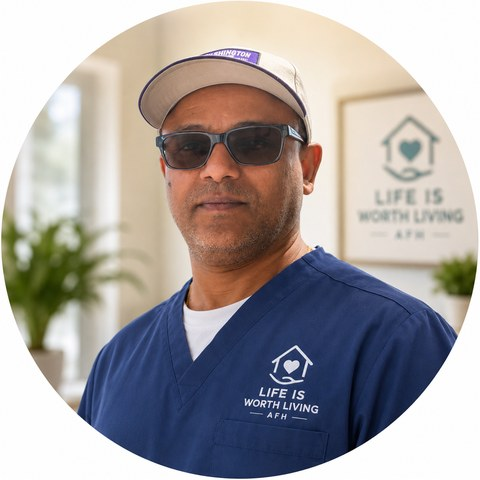
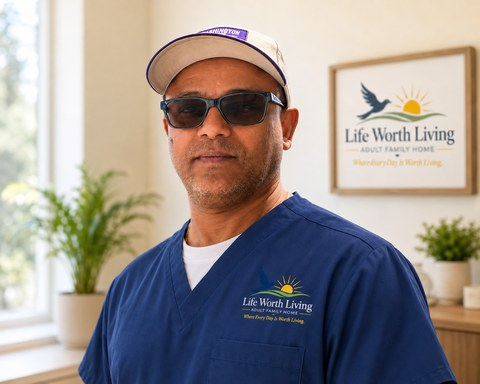
Update Zekariase rectangular profile photo

diff --git a/about/index.html b/about/index.html
@@ -51,7 +51,7 @@
     <section class="py-16 bg-gray-50"><div class="mx-auto max-w-5xl px-4 sm-px-6 lg-px-8"><figure class="owner-quote rounded-3xl border shadow-card"><span class="quote-mark" aria-hidden="true">&ldquo;</span><blockquote>We care for every resident with the same kindness, dignity, and respect we would want for our own family.</blockquote></figure></div></section>
 
     <!-- Meet the Owners -->
-    <section class="py-20 bg-gray-50"><div class="mx-auto max-w-7xl px-4 sm-px-6 lg-px-8"><div class="max-w-3xl"><span class="section-label">Meet the Owners</span><h2 class="mt-4 text-3xl md-text-5xl font-extrabold leading-tight">Experienced leadership with a personal commitment to care.</h2></div><div class="mt-10 grid lg-grid-cols-2 gap-8"><article class="owner-card p-8 rounded-3xl bg-white border shadow-card hover-lift"><div class="owner-portrait-frame owner-portrait-square"><picture><source srcset="../assets/images/team/zekariase-profile-480.jpg 480w, ../assets/images/team/zekariase-profile-960.jpg 960w, ../assets/images/team/zekariase-profile.jpg 1254w" sizes="(max-width: 767px) 92vw, 50vw"><img src="../assets/images/team/zekariase-profile.jpg" alt="Zekariase, MSN, RN, owner of Life Is Worth Living Adult Family Home" width="1254" height="1254" loading="lazy" decoding="async"></picture></div><div class="flex items-start justify-between gap-4 mobile-wrap"><div><h3 class="text-3xl font-extrabold">Zekariase</h3><p class="mt-2 text-lg font-bold text-teal">MSN, RN</p></div><div class="credential-stack"><span class="credential-badge">28+ Years Healthcare Experience</span></div></div><p class="mt-6 text-muted">Zekariase has more than 28 years of healthcare experience, beginning his career as a Certified Nursing Assistant and advancing to become a Registered Nurse and healthcare leader.</p><p class="mt-4 text-muted">Since 2009, he has worked as a Registered Nurse at the Veterans Affairs Hospital, caring for individuals across a variety of settings.</p><div class="mt-6 specialty-grid"><span>Geriatric Care</span><span>Medical-Surgical Nursing</span><span>Transitional Care</span><span>Long-Term Care</span><span>Respite Care</span><span>Hospice &amp; End-of-Life Care</span></div><p class="mt-6 text-muted">In 2020, he earned a Master of Nursing Leadership degree from the University of Washington, further strengthening his commitment to exceptional resident-centered care and healthcare leadership.</p></article><article class="owner-card p-8 rounded-3xl bg-white border shadow-card hover-lift"><div class="owner-portrait-frame"><img src="../assets/images/owner-alem.jpg" alt="Portrait placeholder for Alem" width="1200" height="900" loading="lazy" decoding="async"></div><div class="flex items-start justify-between gap-4 mobile-wrap"><div><h3 class="text-3xl font-extrabold">Alem</h3><p class="mt-2 text-lg font-bold text-teal">Business and healthcare experience</p></div><div class="credential-stack"><span class="credential-badge">CNA</span><span class="credential-badge">Business Degree</span></div></div><p class="mt-6 text-muted">Alem brings both business and healthcare experience to the home.</p><p class="mt-4 text-muted">She earned her Business Degree in 2005 and has worked as a Certified Nursing Assistant, dedicating herself to supporting and caring for individuals with compassion, professionalism, and respect.</p></article></div></div></section>
+    <section class="py-20 bg-gray-50"><div class="mx-auto max-w-7xl px-4 sm-px-6 lg-px-8"><div class="max-w-3xl"><span class="section-label">Meet the Owners</span><h2 class="mt-4 text-3xl md-text-5xl font-extrabold leading-tight">Experienced leadership with a personal commitment to care.</h2></div><div class="mt-10 grid lg-grid-cols-2 gap-8"><article class="owner-card p-8 rounded-3xl bg-white border shadow-card hover-lift"><div class="owner-portrait-frame"><picture><source srcset="../assets/images/team/zekariase-profile-480.jpg 480w, ../assets/images/team/zekariase-profile-960.jpg 960w, ../assets/images/team/zekariase-profile.jpg 1402w" sizes="(max-width: 767px) 92vw, 50vw"><img src="../assets/images/team/zekariase-profile.jpg" alt="Zekariase, MSN, RN, owner of Life Is Worth Living Adult Family Home" width="1402" height="1122" loading="lazy" decoding="async"></picture></div><div class="flex items-start justify-between gap-4 mobile-wrap"><div><h3 class="text-3xl font-extrabold">Zekariase</h3><p class="mt-2 text-lg font-bold text-teal">MSN, RN</p></div><div class="credential-stack"><span class="credential-badge">28+ Years Healthcare Experience</span></div></div><p class="mt-6 text-muted">Zekariase has more than 28 years of healthcare experience, beginning his career as a Certified Nursing Assistant and advancing to become a Registered Nurse and healthcare leader.</p><p class="mt-4 text-muted">Since 2009, he has worked as a Registered Nurse at the Veterans Affairs Hospital, caring for individuals across a variety of settings.</p><div class="mt-6 specialty-grid"><span>Geriatric Care</span><span>Medical-Surgical Nursing</span><span>Transitional Care</span><span>Long-Term Care</span><span>Respite Care</span><span>Hospice &amp; End-of-Life Care</span></div><p class="mt-6 text-muted">In 2020, he earned a Master of Nursing Leadership degree from the University of Washington, further strengthening his commitment to exceptional resident-centered care and healthcare leadership.</p></article><article class="owner-card p-8 rounded-3xl bg-white border shadow-card hover-lift"><div class="owner-portrait-frame"><img src="../assets/images/owner-alem.jpg" alt="Portrait placeholder for Alem" width="1200" height="900" loading="lazy" decoding="async"></div><div class="flex items-start justify-between gap-4 mobile-wrap"><div><h3 class="text-3xl font-extrabold">Alem</h3><p class="mt-2 text-lg font-bold text-teal">Business and healthcare experience</p></div><div class="credential-stack"><span class="credential-badge">CNA</span><span class="credential-badge">Business Degree</span></div></div><p class="mt-6 text-muted">Alem brings both business and healthcare experience to the home.</p><p class="mt-4 text-muted">She earned her Business Degree in 2005 and has worked as a Certified Nursing Assistant, dedicating herself to supporting and caring for individuals with compassion, professionalism, and respect.</p></article></div></div></section>
 
     <!-- Mission -->
     <section class="py-20 bg-white"><div class="mx-auto max-w-7xl px-4 sm-px-6 lg-px-8"><article class="mission-card rounded-3xl border shadow-soft"><span class="section-label">Mission</span><h2 class="mt-5 text-3xl md-text-5xl font-extrabold leading-tight">To provide exceptional, dignified, and person-centered care in a safe, loving, and faith-inspired home environment.</h2></article></div></section>

diff --git a/styles.css b/styles.css
@@ -55,7 +55,6 @@ main section{animation:fade-up .58s ease both}main section:nth-child(2){animatio
 
 /* About owner refinements */
 .owner-portrait-frame{position:relative;overflow:hidden;margin:-.35rem -.35rem 1.6rem;border:1px solid rgba(219,231,232,.86);border-radius:1.25rem;background:linear-gradient(135deg,#edf6ef 0%,#fff8e6 100%);box-shadow:0 16px 42px rgba(22,50,79,.08)}.owner-portrait-frame img{display:block;width:100%;aspect-ratio:4/3;object-fit:cover;object-position:center}.owner-quote{position:relative;overflow:hidden;background:linear-gradient(135deg,#fff 0%,#f8fbfb 58%,#fff8e6 100%);padding:clamp(1.7rem,5vw,3.5rem) clamp(1.4rem,5vw,4rem) clamp(1.7rem,5vw,3.25rem);border-color:rgba(219,231,232,.9)}.owner-quote:before{content:"";position:absolute;left:0;top:0;bottom:0;width:6px;background:linear-gradient(180deg,var(--teal),var(--gold))}.owner-quote blockquote{position:relative;margin:0;padding-left:clamp(2.1rem,5vw,3.8rem);color:var(--navy);font-family:"Playfair Display",Georgia,"Times New Roman",serif;font-size:clamp(1.55rem,3vw,2.7rem);font-weight:800;line-height:1.2;text-wrap:balance}.quote-mark{position:absolute;left:clamp(1.2rem,3vw,2.25rem);top:clamp(1rem,3vw,1.8rem);color:rgba(21,154,165,.18);font-family:Georgia,"Times New Roman",serif;font-size:clamp(4.5rem,12vw,8rem);font-weight:900;line-height:1}@media(max-width:767px){.owner-portrait-frame{margin:0 0 1.35rem}.owner-quote blockquote{padding-left:1.45rem;font-size:1.42rem}.quote-mark{font-size:4rem;left:.9rem;top:.8rem}}
-.owner-portrait-square picture{display:block;width:100%}.owner-portrait-square img{aspect-ratio:1/1;object-fit:cover;background:#fff}
 
 /* Final services page polish */
 .services-trust-strip{padding:0 0 2.5rem}.services-trust-panel{margin-top:-2rem;position:relative;z-index:2;display:grid;grid-template-columns:repeat(4,minmax(0,1fr));gap:.85rem;border:1px solid rgba(219,231,232,.86);border-radius:1.5rem;background:rgba(255,255,255,.96);box-shadow:0 22px 70px rgba(22,50,79,.12);padding:clamp(1rem,2vw,1.35rem);backdrop-filter:blur(16px)}.services-trust-panel span{display:flex;align-items:center;min-height:54px;border:1px solid #d9e6da;border-radius:1rem;background:linear-gradient(135deg,#fff,#f8fbfb);padding:.8rem .9rem;color:var(--navy);font-size:.92rem;font-weight:900;box-shadow:0 8px 22px rgba(22,50,79,.06)}